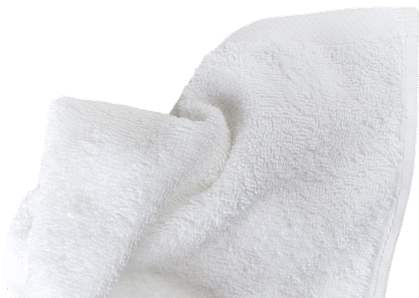
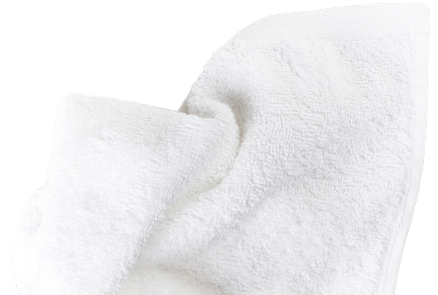
updated design

diff --git a/style.css b/style.css
@@ -50,7 +50,7 @@
         .hero-section-main {
         background-image: url(picures/FV背景.png);
         background-repeat: no-repeat;
-        background-size:cover;
+
         }
             .right-hero-iimg{
     border-radius: 50%;
@@ -107,6 +107,7 @@
     background-repeat: no-repeat;
     width: 100%;
     display: flex;
+    background-size: 100% 100% !important;
     justify-content: center;
     align-items: anchor-center;
     background-size:cover;
@@ -507,6 +508,8 @@ color: #C8A86B;
     flex-direction: column;
     justify-content: center;
     align-items: anchor-center;
+    backdrop-filter: blur(40px);
+    box-shadow: 0px 0px 79px 0px #FFFFFF;
     }
     span.gosai-structure-text::before {
     position: absolute;
@@ -1607,7 +1610,7 @@ color: #C8A86B;
 }
 
 .last-img-text-container {
-    padding: 66px 20px 51px;
+    padding: 66px 20px 95px;
 }
 .grid-main-container{
     padding: 43px 0px 93px;
@@ -1630,6 +1633,9 @@ color: #C8A86B;
     left: 50%;
     transform: translate(-50%, 0%);
 }
+.faq-section {
+    padding: 0;
+}
 
 .grid-card-bottom {
     max-width: unset;
@@ -1647,6 +1653,7 @@ color: #C8A86B;
 .single-product-img img {
     width: 80%;
     margin-top: 60px;
+    height: 350px;
 }
 .os-main-content p{
     max-width: 350px;
@@ -1682,6 +1689,7 @@ color: #C8A86B;
     padding: 30px;
     border-radius: 0 !important;
     z-index: 11111;
+    height: 550px;
 }
 .final-bottom-main-new-custom {
     padding: 100px 0 0;
@@ -2002,7 +2010,7 @@ span.gosai-structure-text::before {
     font-size: 30px;
 }
 .main-os-calm-section{
-    height: 750px !important;
+    height: 180vw !important;
     margin-top: -100px !important;
     z-index: 111111;
     position: relative;
@@ -2025,7 +2033,7 @@ span.gosai-structure-text::before {
     font-size: 20px !important;
 }
 .bottom-image-text-content h1{
-    padding-left: 20px;
+    padding-left: 50px;
 }
 .faq-container {
     margin-top: 22px !important;
@@ -2038,7 +2046,9 @@ span.gosai-structure-text::before {
     column-gap: 0;
     row-gap: 36px;
 }
-
+.bottom-image-text-main {
+    height: 550px !important;
+}
 
 
 

diff --git a/index.html b/index.html
@@ -371,7 +371,7 @@
     <!-- ================os sent section====================== -->
     <section class="main-os-sent-section">
     <div class="os-sent-container">
-            <h5 class="mbl-main-os-sent-section-h5"><span class="number-ott">04</span> <span class="slash"></span> <span class="text-ott">CALM</span></h5>
+            <h5 class="mbl-main-os-sent-section-h5"><span class="number-ott">05</span> <span class="slash"></span> <span class="text-ott">SCENT</span></h5>
     <div class="os-content">
     <div class="os-sub-heading">
     <span>纏</span>
